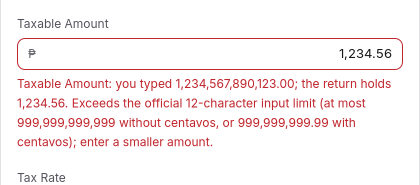
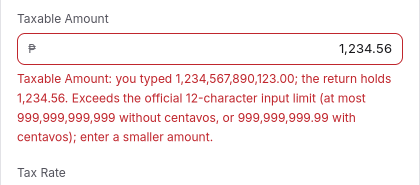
evidence: rerun the Linux rollback at the verified head

Changed region(s): [[0.031, 0.0541, 0.9595, 0.8108], [0.031, 0.8919, 0.1548, 1.0], [0.0619, 0.2432, 0.0929, 0.2973]]

diff --git a/evidence/linux-real-app/README.md b/evidence/linux-real-app/README.md
@@ -4,10 +4,10 @@ driver: gpui-agent-cli 0.5.0
 
 Run on the Linux desktop app in the dry-run test environment (`BUWIZ_NO_KEYCHAIN=1 EBIR_TEST_ENV=1 BIR_AUTH_BYPASS=1 BIR_SFTP_DRY_RUN=1`), with a scratch database and the demo taxpayer. No Queue, Send, Submit or File step was run.
 
-The 2551Q Schedule 1 row-1 Taxable Amount cell first held `1,234.56`. The recipe cleared it, typed `1234567890123` one key at a time with `key_delay_ms: 450`, then pressed Tab. The slow typing step took 5,784 ms before and 5,881 ms after.
+The 2551Q Schedule 1 row-1 Taxable Amount cell first held `1,234.56`. The recipe cleared it, typed `1234567890123` one key at a time with `key_delay_ms: 450`, then pressed Tab. The slow typing step took 5,784 ms before and 5,785 ms after.
 
 - Before (`358331c7`, a main descendant of `e9f34205`): the cell held the wrong committed prefix `123,456,789,012.00`; the note under it says the return holds that prefix, and Tax Due became `3,703,703,670.36`. Suite result: 5 pass.
-- After (`19832128`, `try/amount-notes-f-round`): the cell rolled back to `1,234.56`; the note under it says the return holds `1,234.56`, and Tax Due stayed `37.04`. Suite result: 5 pass.
+- After (`14b653f6`, `try/amount-notes-f-round`): the cell rolled back to `1,234.56`; the note under it says the return holds `1,234.56`, and Tax Due stayed `37.04`. Suite result: 5 pass.
 
 `before.png` and `after.png` are the screenshots gpui-agent wrote at the final semantic assert. `before-note.png` and `after-note.png` crop the amount cell and refusal note from them. The receipts, reports, run logs and exact suite/recipe files are beside them.
 

diff --git a/evidence/linux-real-app/after-report.md b/evidence/linux-real-app/after-report.md
@@ -1,11 +1,11 @@
 # e2e amountnotes-after on linux
 
-App 19832128, gpui-agent-cli 0.5.0, host desktop (desktop), features: press, scroll, hover, drag, viewport, press_within, assert_states, snapshot_since, snapshot_compact, expect_fingerprint, secret_redaction, screenshot_inline.
+App 14b653f6, gpui-agent-cli 0.5.0, host desktop (desktop), features: press, scroll, hover, drag, viewport, press_within, assert_states, snapshot_since, snapshot_compact, expect_fingerprint, secret_redaction, screenshot_inline.
 
 | # | recipe | result | ms | failing step | error / note |
 |---|---|---|---|---|---|
-| 1 | setup-start | pass | 544 |  |  |
-| 2 | sign-up | pass | 9732 |  |  |
-| 3 | tax-year | pass | 6311 |  |  |
-| 4 | open-2551q | pass | 1761 |  |  |
-| 5 | amount-notes | pass | 14102 |  |  |
+| 1 | setup-start | pass | 909 |  |  |
+| 2 | sign-up | pass | 9840 |  |  |
+| 3 | tax-year | pass | 6212 |  |  |
+| 4 | open-2551q | pass | 1887 |  |  |
+| 5 | amount-notes | pass | 13959 |  |  |
